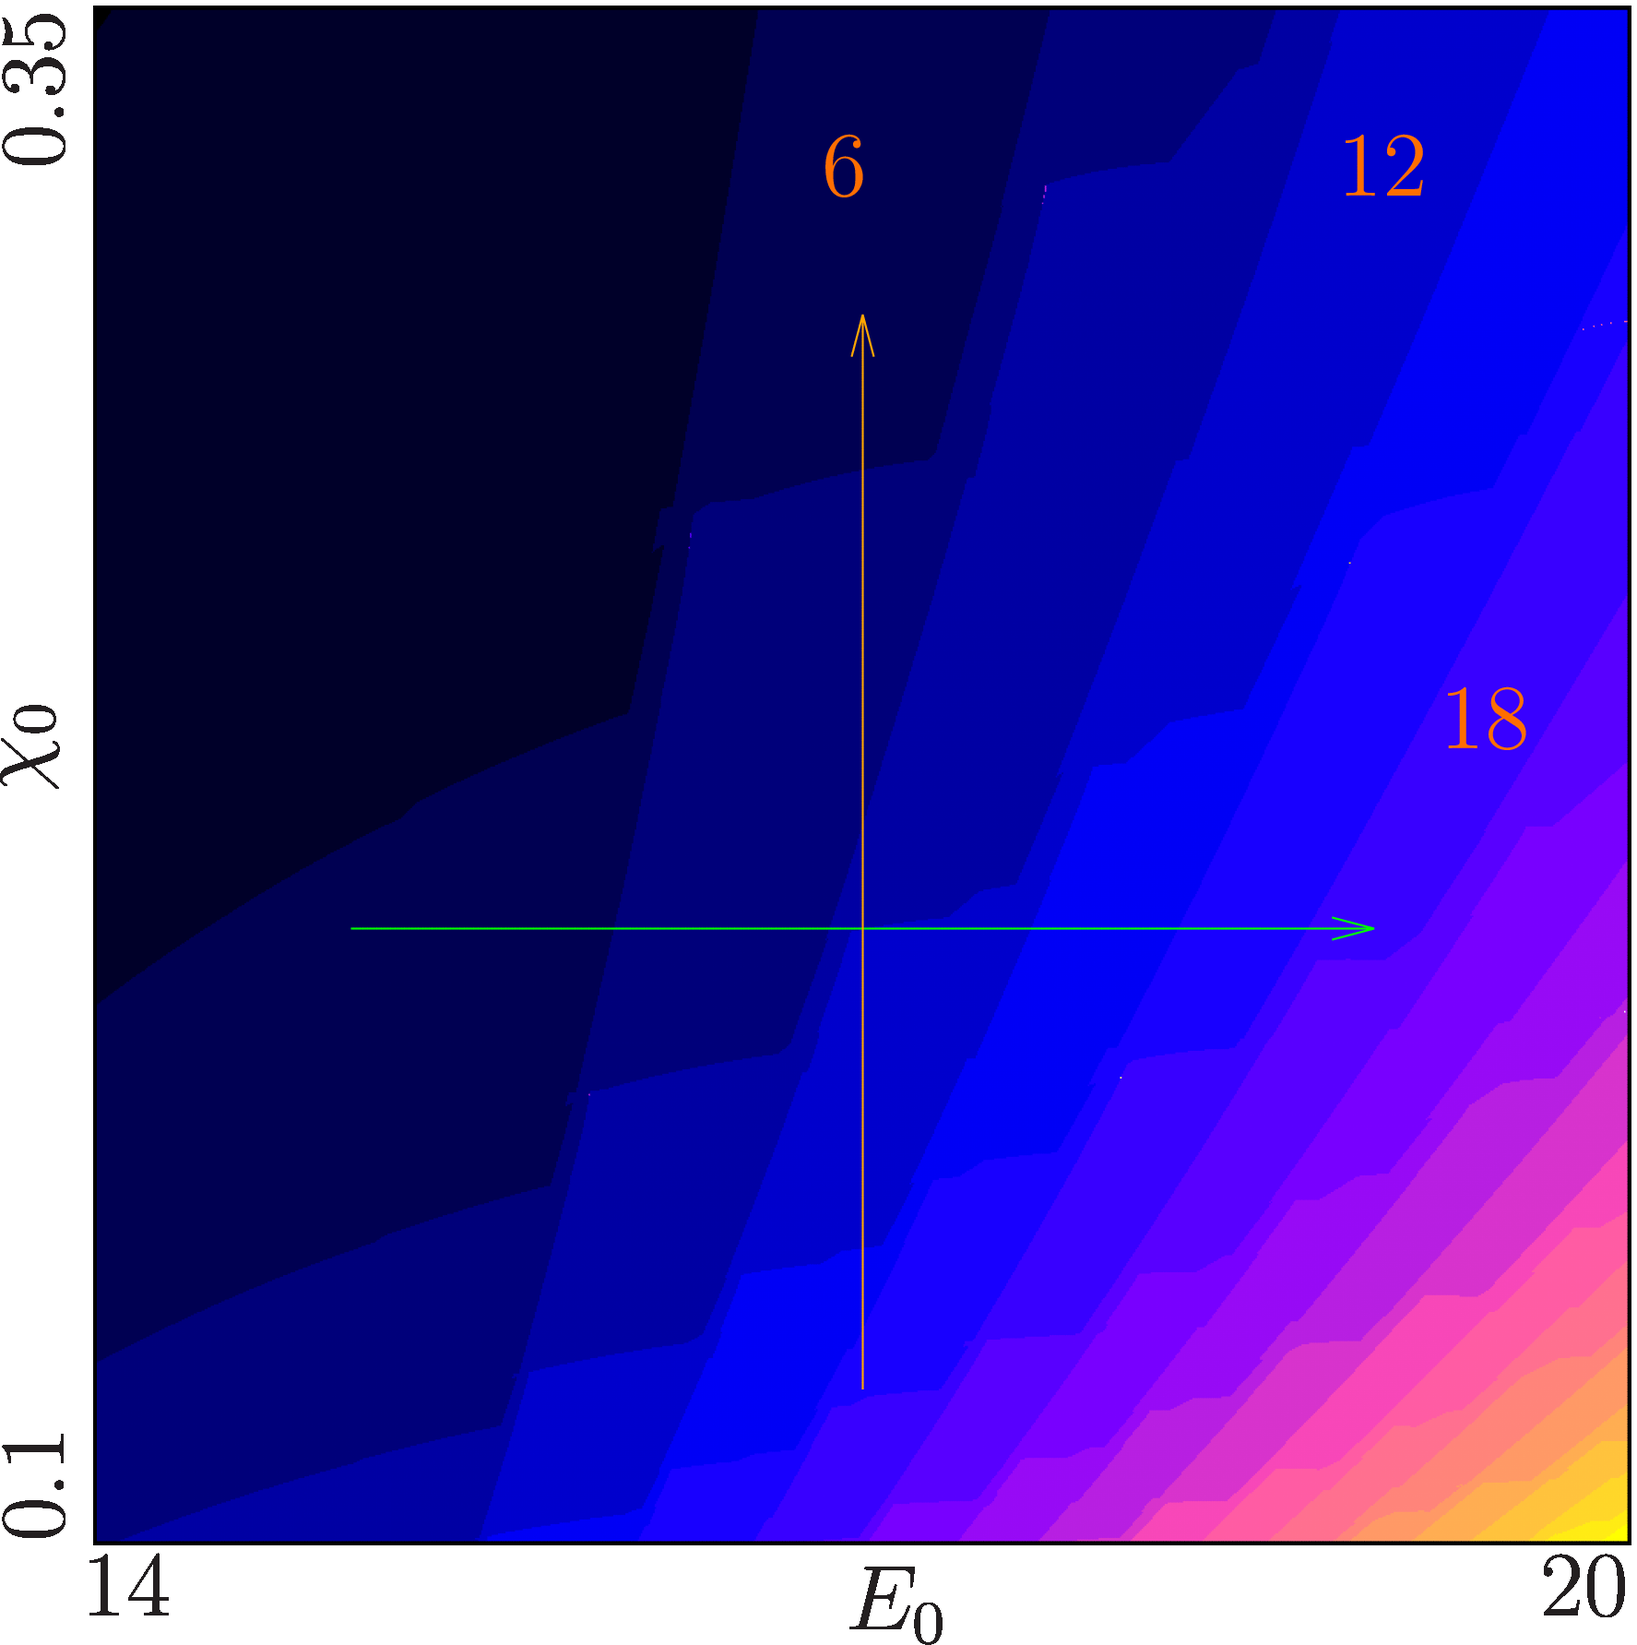
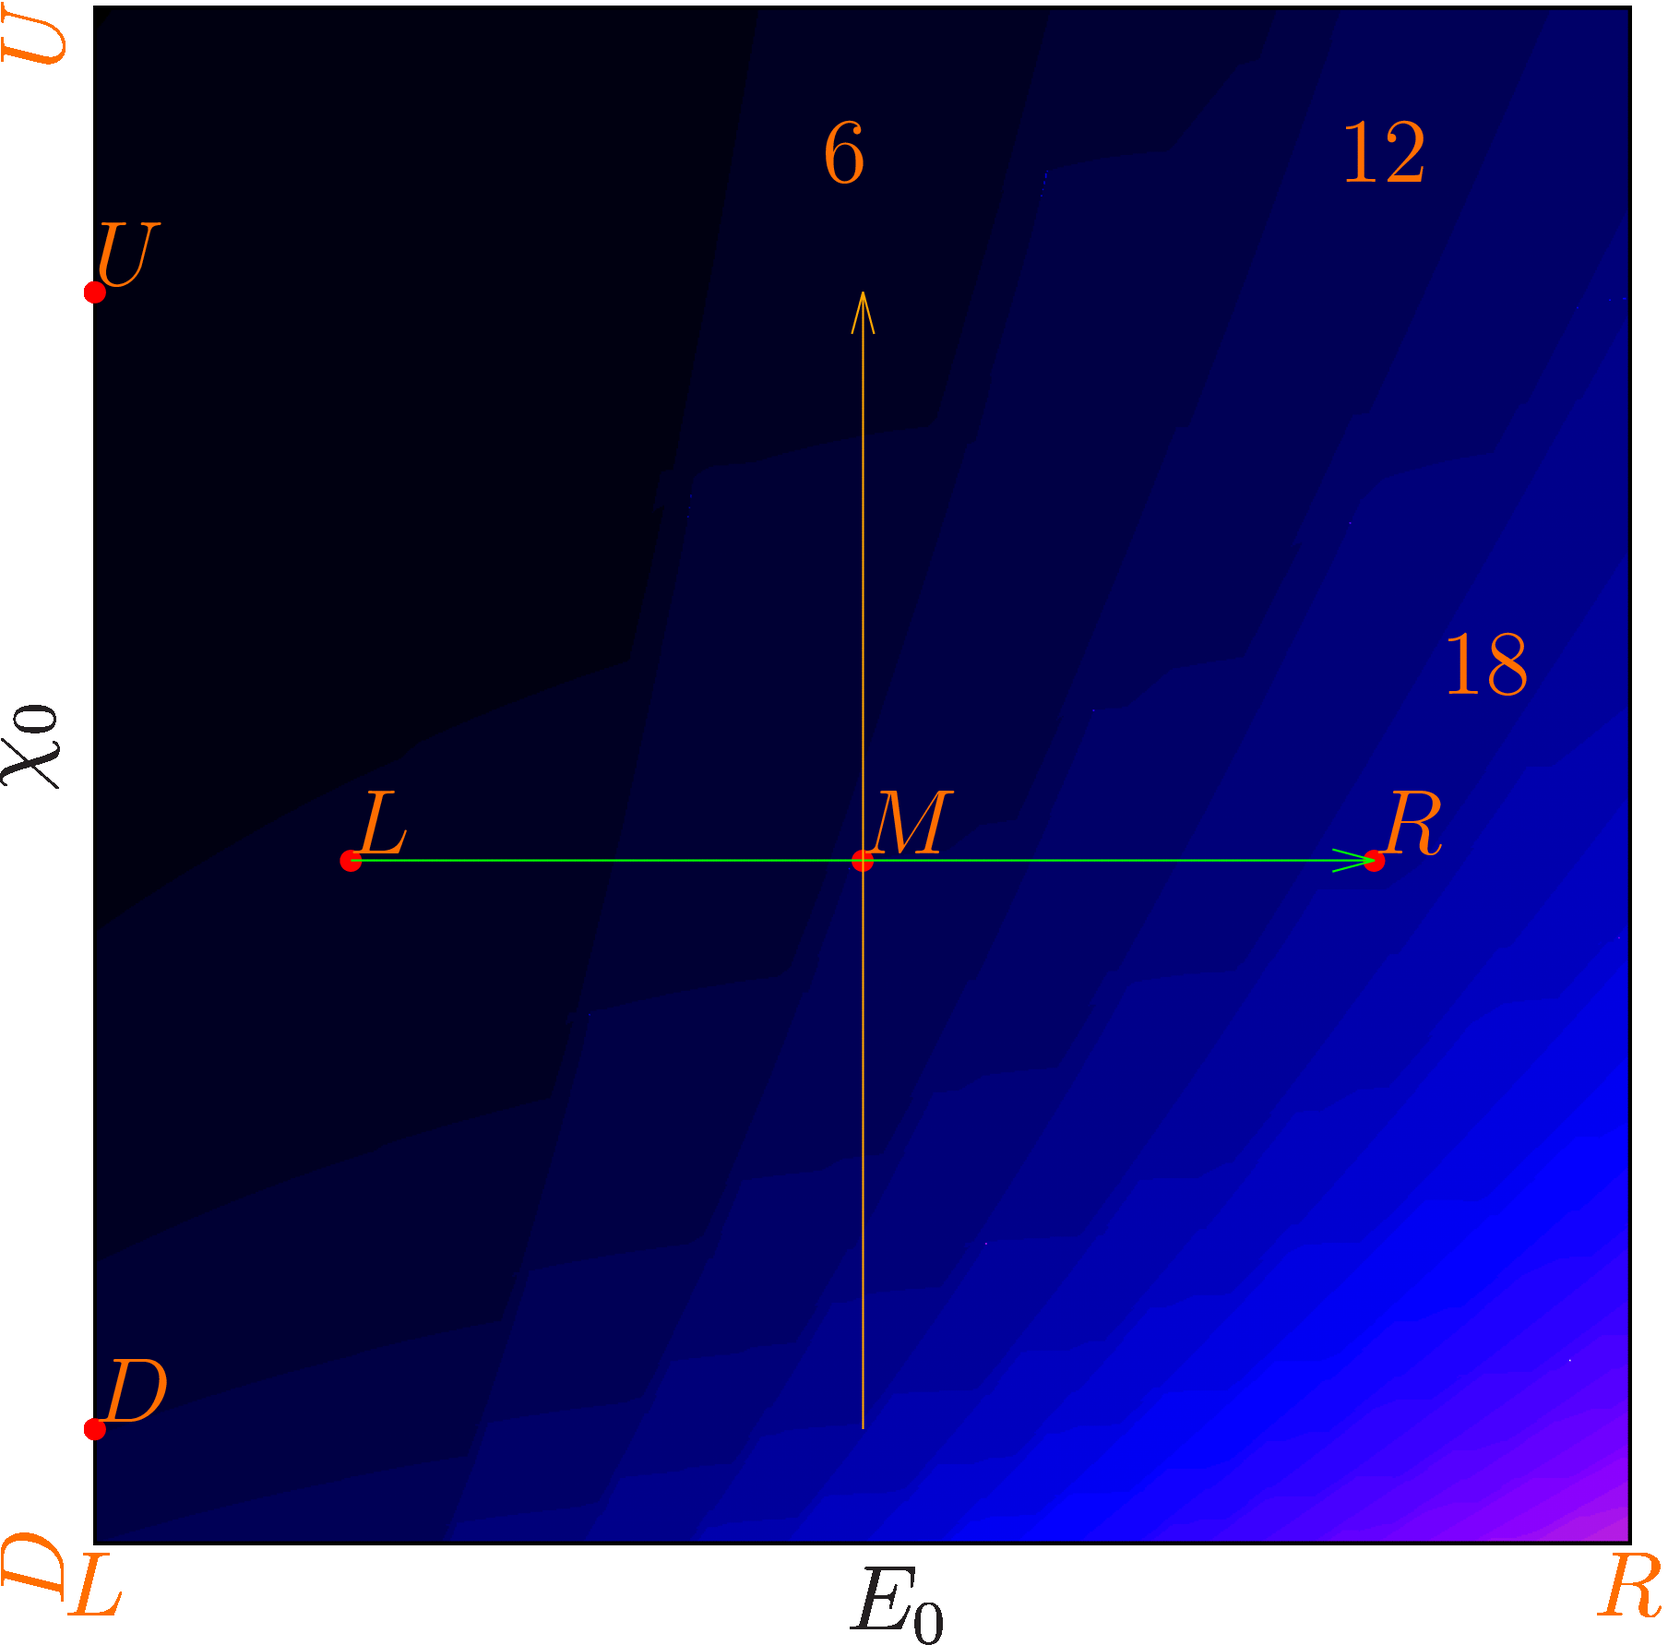
continue correction of setup

diff --git a/Report/Sections/50_Setup/32_quadratic_hyper_first.tex b/Report/Sections/50_Setup/32_quadratic_hyper_first.tex
@@ -1,17 +1,30 @@
-\subsection{First Attempt}
+\subsection{Steep Parabola-shaped Branches $f_\A$ and $f_\C$}
 \label{sec:setup.quad.hyper.1}
 
-We fix the hyperparameters as described and fix the left parameters of $g_L$ to $a_L = 8$ and $b_L = -1$.
-Scanning the periods for sensible values of $\alpha = g_R\left(\frac{1}{4}\right)$ and $\beta = c_L$ results in \Cref{fig:setup.quad.hyper.1.period}.
-The sensible values of $\alpha = g_R\left(\frac{1}{4}\right)$ are larger than $\frac{1}{4}$ to keep the parabola above the bisector $y = x$ and smaller than $\frac{1}{2}$ to keep the value at the left borders of the branches $f_\B$ and $f_\D$ below the value at the right borders.
-For the specified values of $a_L$ and $b_L$, the sensible values for $\beta = c_L$ are smaller than $0.22$ to not map the points directly onto branch $f_\C$ from branch $f_\A$.
+\hl{The values of the compound parameters $g_R\left(\frac{1}{4}\right)$ and $\left. \frac{d}{dx} g_R\left(x\right) \right|_{x = \frac{1}{2}}$ are fixed as described previously in} \Cref{sec:setup.quad.hyper.params}.
+\hl{In this section, the values of the parameters of the function $g_L$ are set to $a_L = 8$ and $b_L = -1$ to get steep, shifted parabola-shaped branches $f_\A$ and $f_\D$, as one can see in the cobweb diagrams in} \Cref{fig:setup.quad.hyper.1.cobwebs}.
+Scanning the periods for \hl{reasonable} values of $\alpha = g_R\left(\frac{1}{4}\right)$ and \hl{the parameter} $\beta = c_L$ results in \Cref{fig:setup.quad.hyper.1.period}.
+The \hl{reasonable} values for $\alpha = g_R\left(\frac{1}{4}\right)$ are larger than $\frac{1}{4}$ to keep the parabola above the bisector $y = x$ and smaller than $\frac{1}{2}$ to keep the value \hl{of the model function} at the left borders of the branches $f_\B$ and $f_\D$ below the value \hl{of the model function} at the right borders.
+For the specified values of $a_L$ and $b_L$, the reasonable values for $\beta = c_L$ are smaller than $0.22$ to not map the points directly onto the branch $f_\C$ from the branch $f_\A$.
 To keep the parabola above the bisector $y = x$, the values for $\beta$ should also be larger than $0.12$.
+
+\hl{
+	With the newly chosen fixed parameters and the new compound parameters, this model imitates the shape of the original model function well still.
+}
+\hl{The parameter $c_L$ is also still varied and this emulates the effects of $\chi_0$ on the branches $F_\A$ and $F_\C$ of the original model function well, as described in the previous section,} \Cref{sec:setup.quad}.
+\hl{
+	The other varied parameter is the compound parameter $g_R\eft(\frac{1}{4}\right)$.
+	For brevity the varied parameters are named $\alpha = g_R\eft(\frac{1}{4}\right)$ and $\beta = c_L$.
+	Varying the parameter $\alpha$ is a major improvement for emulating the effects of $E_0$ on the branches $F_\B$ and $F_\D$ of the original model function.
+	Increasing $\alpha$ primarily increases the values of the model function on the left sides of the branches $f_\B$ and $f_\D$ and keeps the values on the right sides the same.
+	It also moves the local minima of those branches to the left and decreases the value of the model function at those points, just as the parameter $E_0$ did to the original model function.
+}
 
 \begin{figure}
 	\centering
 	\includegraphics[width=0.6\textwidth]{40_Quadratic_fittingR/2D_Period_Whole/result.png}
 	\caption[2D scan of the periods of the quadratic model with hyperparameters]{
-	2D scan of the periods of the piecewise quadratic model with hyperparameters $g_R\left(\frac{1}{4}\right), g_R\left(\frac{1}{2}\right),$ and $\left. \frac{d}{dx} g_R\left(x\right) \right|_{x = \frac{1}{2}}$.
+	2D scan of the periods of the piecewise quadratic model with compound parameters $g_R\left(\frac{1}{4}\right), g_R\left(\frac{1}{2}\right),$ and $\left. \frac{d}{dx} g_R\left(x\right) \right|_{x = \frac{1}{2}}$.
 	The parameters $a_L = 8, b_L = -1, g_R\left(\frac{1}{4}\right) = 0.525,$ and $\left. \frac{d}{dx} g_R\left(x\right) \right|_{x = \frac{1}{2}} = 1.2$ are fixed.
 	The parameters $\alpha = g_R\left(\frac{1}{4}\right)$ and $\beta = c_L$ are varied in the ranges $[0.25, 0.5]$ and $[0.12, 0.22]$, respectively.
 	The points $A, B,$ and $C$ mark the parameter values used for the cobweb diagrams in \Cref{fig:setup.quad.hyper.1.cobwebs}.
@@ -44,16 +57,42 @@ To keep the parabola above the bisector $y = x$, the values for $\beta$ should a
 	Cobweb diagrams at three parameter values of $\alpha = g_R\left(\frac{1}{4}\right)$ and $\beta = c_L$ in the piecewise quadratic model with hyperparameters.
 	The other parameters are fixed as $a_L = 8, b_L = -1, g_R\left(\frac{1}{2}\right) = \frac{1}{2} + \frac{1}{40}$, and $\left. \frac{d}{dx} g_R(x) \right|_{x = \frac{1}{2}} = 1 + \frac{1}{5}$.
 	The parameter values are marked in \Cref{fig:setup.quad.hyper.1.period}.
-	(a) shows the cycle $\Cycle{\A^4\B^5\C^4\D^5}$ at point $A$, (b) shows the cycle $\Cycle{\A^3\B^6\D^3\C^6}$ at point $B$, and (c) shows the cycle $\Cycle{\A^2\B^7\C^2\D^7}$ at point $C$.
+	(a) shows the cycle $\Cycle{\A^4\B^5\C^4\D^5}$ at point $A$ \hl{where $\alpha = 0.42$ and $\beta = 0.1525$},
+	(b) shows the cycle $\Cycle{\A^3\B^6\D^3\C^6}$ at point $B$ \hl{where $\alpha = 0.385$ and $\beta = 0.1675$},
+	and (c) shows the cycle $\Cycle{\A^2\B^7\C^2\D^7}$ at point $C$ \hl{where $\alpha = 0.385$ and $\beta = 0.1675$}.
 	}
 	\label{fig:setup.quad.hyper.1.cobwebs}
 \end{figure}
 
-\todo{Describe cycles like in previous subsections?}
+\Cref{fig:setup.quad.hyper.1.period} \hl{shows a 2D scan of the periods associated eith parameter regions in the specified parameter reange for $\alpha$ and $\beta$}.
+\hl{
+	At the top, some periods are annotated.
+	One can see that in the scan there are sequences of parameter regions that are associated with the same period.
+	These sequences are next to each other, where each sequence is associated with a period that is two numbers higher than the period associated with the parameter region sequence right to it.
+}
+\hl{This is similar to the \gls{pi} that can be observed in the original model, as described in} \Cref{sec:state.og.dynamics}.
+\hl{
+	One difference is that the sequences in the original model were connected and formed chains.
+}
 
-The cobwebs show that along these regions of the same period, the symbolic sequence evolves just like the symbolic sequence evolved in the original model along the chains of the same period.
-Points of the stable cycles in the sequence move from branches $\A$ and $\C$ to branches $\B$ and $\D$.
-But unfortunately, there are no ``type B'' parameter regions.
-Nevertheless, having a sequence of multiple ``type A'' parameter regions that behave like the ``type A'' parameter regions in the original model shows that choosing the hyperparameters was a good step.
-Also, we don't see just one sequence of ``type A'' parameter regions, but multiple sequences next to each other.
-And their periods differ by 2 as indicated by the numbers at the top of \Cref{fig:setup.quad.hyper.1.period}, just like in the original model.
+\Cref{fig:setup.quad.hyper.1.cobwebs} \hl{shows cobweb diagrams for different parameter values along the sequence of parameter regions associated with the period $18$}.
+\hl{These parameter values are marked with points in} \Cref{fig:setup.quad.hyper.1.period}.
+\Cref{fig:setup.quad.hyper.1.cobweb.A} \hl{shows the cycle at the point $A$ with the symbolic sequence $\A^4\B^5\C^4\D^5$}.
+\Cref{fig:setup.quad.hyper.1.cobweb.B} \hl{shows the cycle at the point $B$ with the symbolic sequence $\A^3\B^6\C^3\D^6$}.
+\hl{
+	Notice that the cycle at point $B$ has one point less on the branches $f_\A$ and $f_\C$ each than the cycle at point $A$, while it has one point more on the branches $f_\B$ and $f_\D$ each.
+	It is as if two points, one of each of the branches $f_\A$ and $f_\C$, moved to the next branch from one parameter region of the sequence to the next.
+}
+\Cref{fig:setup.quad.hyper.1.cobweb.C} \hl{shows the cycle at the point $B$ with the symbolic sequence $\A^2\B^7\C^3\D^7$}.
+\hl{
+	Again, two points, one of each of the branches $f_\A$ and $f_\C$, moved to the next branch from the parameter region with point $B$ to the parameter region with the point $C$.
+}
+\hl{This is also very similar to the behavior of the original model, where two points, one of each of the branches $F_\A$ and $F_\C$, moved to the next branch each along the chain of parameter regions associated with the same period, as described in} \Cref{sec:state.og.dynamics}.
+\hl{
+	Besides that the sequences of parameter region associated with the same period are not connected here, there is another difference to the behavior of the original model.
+	In the original model there are ``type B'' parameter regions between the ``type A'' parameter regions of a chain of parameter regions with the same period.
+	To reiterate, ``type A'' parameter regions are associated with a single symmetric cycle.
+	These are the parameter regions, one can observe in this case also.
+	Between two ``type A'' parameter regions there is a parameter region that is associated with two coexisting asymmetrical twin cycles, called ``type B'' parameter regions.
+	These ``type B'' parameter regions are missing in this case.
+}

diff --git a/Report/Sections/50_Setup/31_quadratic_hyper_parameters.tex b/Report/Sections/50_Setup/31_quadratic_hyper_parameters.tex
@@ -1,13 +1,13 @@
-\subsection{Parameter Definitions}
+\subsection{Compound Parameter Definitions}
 \label{sec:setup.quad.hyper.params}
 
-The new parameters are $g_R\left(\frac{1}{4}\right)$ for the value at the left border of branches $f_\B$ and $f_\D$, $g_R\left(\frac{1}{2}\right)$ for the value at the right border of the branches, and finally $\left. \frac{d}{dx} g_R(x) \right|_{x = \frac{1}{2}}$ for the slope of the branches at the right border.
-We fix the parameter $\left. \frac{d}{dx} g_R(x) \right|_{x = \frac{1}{2}} = 1.2$.
+The \hl{compound} parameters are $g_R\left(\frac{1}{4}\right)$ for the value at the left border of branches $f_\B$ and $f_\D$, $g_R\left(\frac{1}{2}\right)$ for the value at the right border of the branches, and finally $\left. \frac{d}{dx} g_R(x) \right|_{x = \frac{1}{2}}$ for the slope of the branches at the right border.
+\hl{The compound parameter} $\left. \frac{d}{dx} g_R(x) \right|_{x = \frac{1}{2}} = 1.2$ \hl{is fixed}.
 This way, the steepest slope is 1.2 which is just above 1.
 Therefore, most of the function is still contractive.
-We also fix the parameter $g_R\left(\frac{1}{2}\right) = \frac{1}{2} + \epsilon$ with $\epsilon = 0.025$ to have the value at the right border of the branches just above the bisector $y = x$.
-The parameter left is $g_R\left(\frac{1}{4}\right)$, the value at the left border of the branches.
-This parameter is varied.
+\hl{Also, the compound parameter} $g_R\left(\frac{1}{2}\right) = \frac{1}{2} + \epsilon$ \hl{is fixed} with $\epsilon = 0.025$ to have the value at the right border of the branches $f_\B$ and $f_\D$ just above the bisector $y = x$.
+The \hl{only compound parameter that is not fixed yet is} $g_R\left(\frac{1}{4}\right)$, the value \hl{of the model function} at the left border of the branches $f_\B$ and $f_\D$.
+This compound parameter is varied.
 
 \begin{subequations}
 	\begin{align}
@@ -17,9 +17,9 @@ This parameter is varied.
 	\end{align}
 \end{subequations}
 
-\Crefrange{equ:setup.quad.hyper.A}{equ:setup.quad.hyper.A} are the values of $g_R\left(\frac{1}{4}\right), g_R\left(\frac{1}{2}\right),$ and $\left. \frac{d}{dx} g_R\left(x\right) \right|_{x = \frac{1}{2}}$.
-This is a system of equations, we now need to solve for the parameters $a_R, b_R,$ and $c_R$.
-To compute the parameters, we write the system as a matrix and invert it.
+\Crefrange{equ:setup.quad.hyper.A}{equ:setup.quad.hyper.A} are the values of the compound parameters $g_R\left(\frac{1}{4}\right), g_R\left(\frac{1}{2}\right),$ and $\left. \frac{d}{dx} g_R\left(x\right) \right|_{x = \frac{1}{2}}$.
+This is a system of equations \hl{that need to be solved} for the parameters $a_R, b_R,$ and $c_R$.
+To compute the parameters, \hl{one can write} the system \hl{of equations} as a matrix and invert it.
 The matrix and its inverse are in \Cref{equ:setup.quad.hyper.matrix}.
 
 \begin{align}
@@ -36,7 +36,7 @@ The matrix and its inverse are in \Cref{equ:setup.quad.hyper.matrix}.
 	\label{equ:setup.quad.hyper.matrix}
 \end{align}
 
-Hence, the equations for $a_R, b_R,$ and $c_R$ in dependence of $g_R\left(\frac{1}{4}\right), g_R\left(\frac{1}{2}\right),$ and $\left. \frac{d}{dx} g_R\left(x\right) \right|_{x = \frac{1}{2}}$ are \Crefrange{equ:setup.quad.hyper.aR}{equ:setup.quad.hyper.cR}.
+Hence, the equations for \hl{the parameters} $a_R, b_R,$ and $c_R$ in dependence of \hl{the compound parameters} $g_R\left(\frac{1}{4}\right), g_R\left(\frac{1}{2}\right),$ and $\left. \frac{d}{dx} g_R\left(x\right) \right|_{x = \frac{1}{2}}$ are \Crefrange{equ:setup.quad.hyper.aR}{equ:setup.quad.hyper.cR}.
 
 \begin{align}
 	a_R & = 16 \cdot g_R\left(\frac{1}{4}\right) - 16 \cdot g_R\left(\frac{1}{2}\right) + 4 \cdot \left. \frac{d}{dx} g_R\left(x\right) \right|_{x = \frac{1}{2}}     \label{equ:setup.quad.hyper.aR}     \\

diff --git a/Report/Sections/50_Setup/30_quadratic_hyper.tex b/Report/Sections/50_Setup/30_quadratic_hyper.tex
@@ -1,10 +1,13 @@
-\section{Piecewise Quadratic Model with Hyperparameters}
+\section{Piecewise-quadratic Model with Compound Parameters}
 \label{sec:setup.quad.hyper}
 
-Now we will attempt to imitate the effects of the parameter $E_0$ on the branches $f_\B$ and $f_\D$ better.
-Previously, we just varied $c_R$ which changes the values of the whole branches evenly.
-Now, we only want to affect the value at the left borders of these branches.
-For this, we introduce new parameters that are tied directly to characteristics of the model function.
+\hl{Previously in} \Cref{sec:setup.quad}, \hl{the only varied parameters were $c_L$ and $c_R$}.
+\hl{
+	Changing the parameter $c_L$ emulates the effects of $\chi_0$ on the branches $F_\A$ and $F_\C$ of the original model function well.
+	But changing $c_R$ does not emulate the effects of $E_0$ on the branches $F_\B$ and $F_\D$ very well.
+	This section introduces compound parameters that directly influence the characteristics of the branches $F_\B$ and $F_D$.
+	And the values of the parameters $a_R, b_R,$ and $c_R$ are not directly changed but calculated from those compound parameters.
+}
 
 \input{Sections/50_Setup/31_quadratic_hyper_parameters.tex}
 \input{Sections/50_Setup/32_quadratic_hyper_first.tex}

diff --git a/Report/Sections/50_Setup/23_quadratic_skewed.tex b/Report/Sections/50_Setup/23_quadratic_skewed.tex
@@ -1,4 +1,4 @@
-\subsection{Shifted Parabolas on the Branches}
+\subsection{Shifted Parabola-shaped Branches}
 \label{sec:setup.quad.skewed}
 
 \hl{
@@ -84,4 +84,4 @@ This is similar to what happens in the original model along a chain of parameter
 And in between both points, there is a parameter region where 2 cycles coexist.
 This is shown in \Cref{fig:setup.quad.skew.cobweb.B}, which depicts the cycles at point $C$.
 But unfortunately, the coexisting cycles are the same cycles that exist at point $A$ and point $C$, $\Cycle{\A^4\B^2\C^4\D^2}$ and $\Cycle{\A^3\B^3\C^3\D^3}$.
-Similarly to the previous \hl{experiment}, we merely observe two parameter regions with stable cycles overlapping.
+Similarly to the previous \hl{experiment}, we merely observe two parameter regions with stable cycles overlapping, see \Cref{sec:setup.quad.even}.

diff --git a/Report/Sections/50_Setup/22_quadratic_even.tex b/Report/Sections/50_Setup/22_quadratic_even.tex
@@ -1,11 +1,12 @@
 \subsection{Centered Parabola-shaped Branches}
 \label{sec:setup.quad.even}
 
+\hl{This section examines the piecewise-quadratic model with the centered parabola-shaped branches, see the functions in} \Cref{fig:setup.quad.even.cobwebs}.
 \hl{
-	This section examines the piecewise-quadratic model with the centered parabola-shaped branches, see the functions in \Cref{fig:setup.quad.even.cobwebs}.
 	To center the parabola-shaped branches, the parameter values $a_L = a_R = 6$, $b_L = -\frac{3}{2}$, and $b_R = -\frac{9}{2}$ are chosen and only the parameters $c_L$ and $c_R$ are varied.
 	Both varied parameters are in the ranges $[0.25, 0.6]$.
 }
+
 
 This emulates the effect that $\chi_0$ has on the branches $F_\A$ and $F_\C$.
 Increasing $c_L$ increases the values of the branches $f_\A$ and $f_\C$.

diff --git a/Report/Sections/50_Setup/00_setup.tex b/Report/Sections/50_Setup/00_setup.tex
@@ -6,8 +6,8 @@
 	Specifically, it is concerned with finding an archetypal model that exhibits the same behavior as the original model.
 	First, it analyzes the original model and identifies its characteristics.
 	After that, it lists different constructed models with different characteristics similar to the characteristics of the original model function.
-	The behavior of these constructed models is analyzed as outlined in \Cref{chap:approach}.
 }
+\hl{The behavior of these constructed models is analyzed as outlined in} \Cref{chap:approach}.
 
 \input{Sections/50_Setup/10_char.tex}
 

diff --git a/Report/Sections/50_Setup/20_quadratic.tex b/Report/Sections/50_Setup/20_quadratic.tex
@@ -4,8 +4,8 @@
 \hl{
 	In this section, the first model with similar characteristics to the original model is constructed.
 	This chapter only includes the constructed models on the ``good'' path.
-	\Cref{chap:app.models} lists other models that are not included in this chapter.
 }
+\Cref{chap:app.models} \hl{lists other models that are not included in this chapter}.
 
 \hl{
 	This first model has 4 branches that are all quadratic.

diff --git a/Report/Sections/50_Setup/33_quadratic_hyper_second.tex b/Report/Sections/50_Setup/33_quadratic_hyper_second.tex
@@ -1,4 +1,4 @@
-\subsection{Second Attempt}
+\subsection{Shallow Parabola-shaped Branches $f_\A$ and $f_\C$}
 \label{sec:setup.quad.hyper.2}
 
 Now, we try to close the gaps between the ``type A'' parameter regions of one sequence of parameter regions with the same period to form proper chains.
